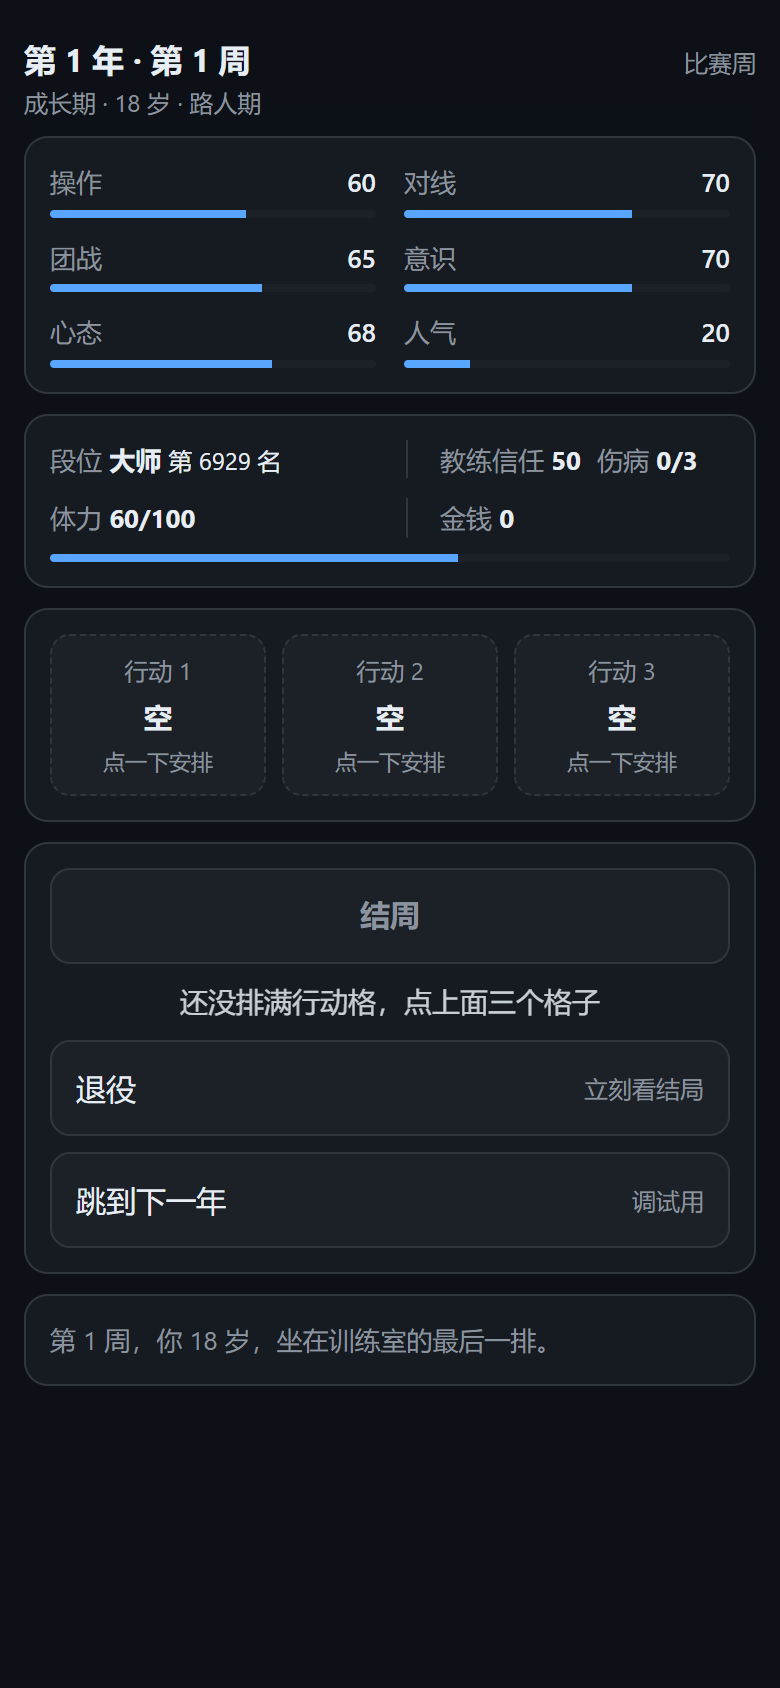
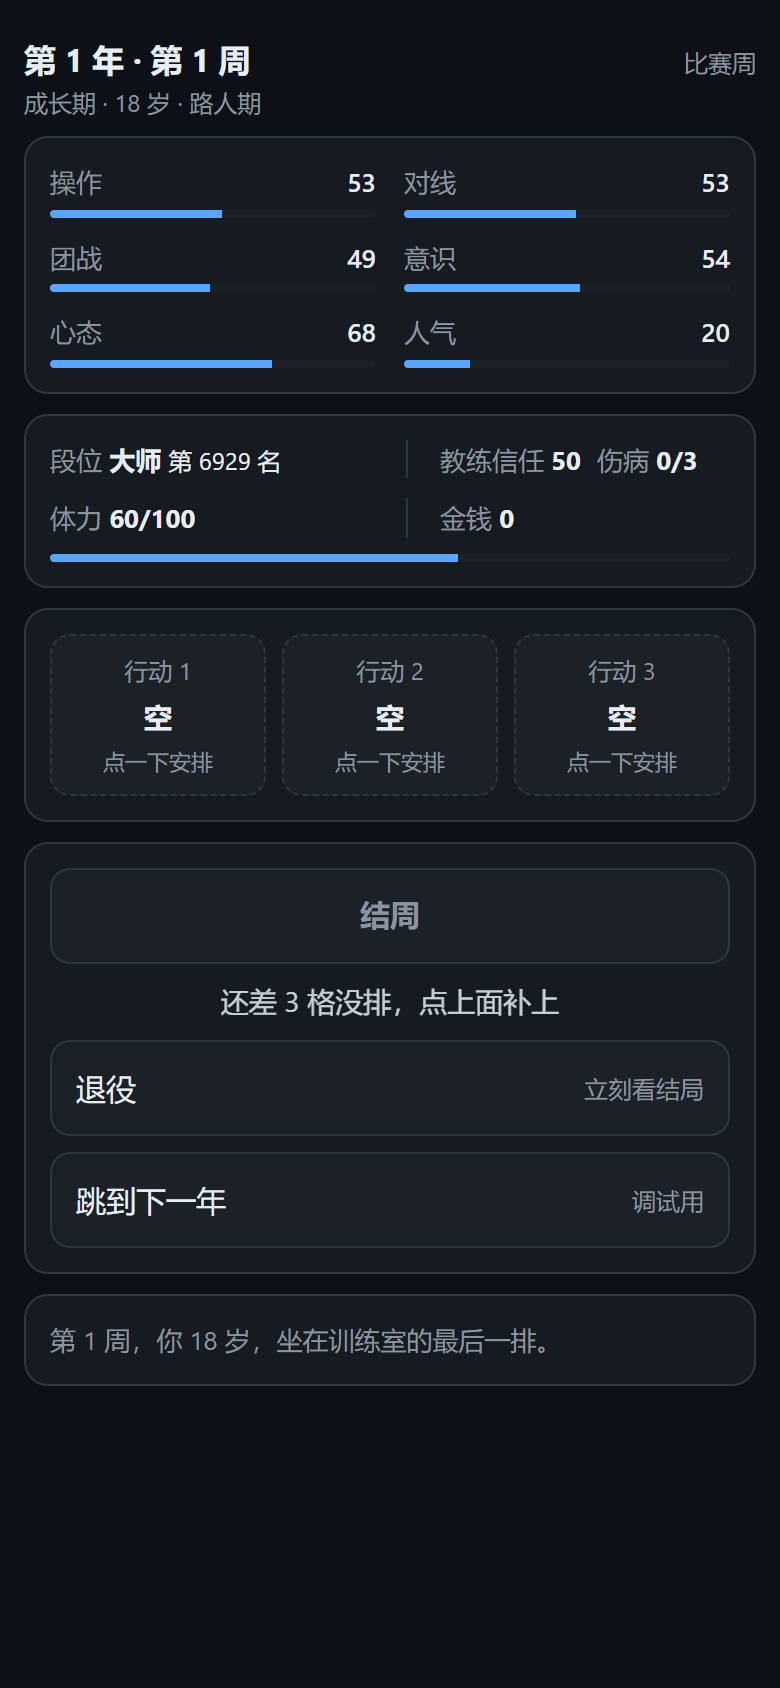
feat(ui): 面板动效 150/200ms + 禁用原因补齐为什么

diff --git a/src/ui/main.ts b/src/ui/main.ts
@@ -86,6 +86,20 @@ function renderSlots(): string {
   return `<div class="panel"><div class="slots">${cells}</div></div>`;
 }
 
+/**
+ * 结周为什么点不了：一句里要有「为什么」和「怎么做」。
+ * 体力不够是另一种处境——说成「点上面补上」会误导。
+ */
+function blockedWhy(empty: number): string {
+  if (state.pendingEvent) return '这个事件还没选完，先在上面选一个';
+  const slot = state.actionGrid.indexOf(null);
+  const canDoSomething = ACTION_IDS.some(
+    (id) => id !== 'rest' && isActionUnlocked(state, id) && canAfford(state, slot, id),
+  );
+  if (!canDoSomething) return `还剩 ${empty} 格，但体力只够排休息`;
+  return `还差 ${empty} 格没排，点上面补上`;
+}
+
 function renderControls(): string {
   const empty = state.actionGrid.filter((id) => id === null).length;
   const incomplete = empty > 0;
@@ -94,9 +108,7 @@ function renderControls(): string {
     <button class="btn primary" data-act="end-week" ${blocked}>
       <span>结周</span><span class="hint">${blocked ? '' : '结算三个行动并推进'}</span>
     </button>
-    ${blocked
-      ? `<p class="why">${state.pendingEvent ? '这个事件还没处理完' : '还没排满行动格，点上面三个格子'}</p>`
-      : ''}
+    ${blocked ? `<p class="why">${blockedWhy(empty)}</p>` : ''}
     <button class="btn" data-act="retire"><span>退役</span><span class="hint">立刻看结局</span></button>
     <button class="btn" data-act="skip-year"><span>跳到下一年</span><span class="hint">调试用</span></button>
   </div>`;
@@ -134,7 +146,7 @@ function renderSheet(): string {
     const clearRow = filled
       ? `<button class="btn" data-act="clear-slot"><span>清空这一格</span><span class="hint">恢复成空，重新排</span></button>`
       : '';
-    return `<div class="overlay" data-act="close-sheet"><div class="sheet" data-stop="1">
+    return `<div class="overlay" data-act="close-sheet"><div class="sheet" data-kind="pick" data-stop="1">
       <h2>${slotLabel(sheet.slot)}排什么</h2>
       <div class="options">${rows}${clearRow}</div>
     </div></div>`;
@@ -146,7 +158,7 @@ function renderSheet(): string {
         `<button class="btn" data-act="pick-target" data-key="${key}"><span>${ATTR_LABEL[key]}</span><span class="hint">集中提升</span></button>`,
     )
     .join('');
-  return `<div class="overlay" data-act="close-sheet"><div class="sheet" data-stop="1">
+  return `<div class="overlay" data-act="close-sheet"><div class="sheet" data-kind="pick" data-stop="1">
     <h2>专项训练练哪一项</h2>
     <div class="options">${rows}</div>
   </div></div>`;
@@ -168,7 +180,7 @@ function renderEvent(): string {
       </button>`;
     })
     .join('');
-  return `<div class="overlay"><div class="sheet">
+  return `<div class="overlay"><div class="sheet" data-kind="result">
     <h2>本周事件</h2>
     <p class="event-text">${esc(event.text)}</p>
     <div class="options">${rows}</div>
@@ -180,7 +192,7 @@ function renderOutcome(): string {
   const rows = outcome
     .map((e) => `<div class="${e.tone}">${esc(e.text)}</div>`)
     .join('');
-  return `<div class="overlay"><div class="sheet">
+  return `<div class="overlay"><div class="sheet" data-kind="result">
     <h2>结果</h2>
     <div class="log">${rows}</div>
     <div style="height:12px"></div>

diff --git a/src/ui/style.css b/src/ui/style.css
@@ -271,6 +271,20 @@ button {
   color: var(--bad);
 }
 
+/* 动效：150ms / 200ms，位移 8px。用 animation 而不是 transition——
+   界面靠 innerHTML 整块重绘，新插入的元素不会触发 transition。 */
+@keyframes rise {
+  from {
+    opacity: 0;
+    transform: translateY(8px);
+  }
+}
+@keyframes fade {
+  from {
+    opacity: 0;
+  }
+}
+
 .overlay {
   position: fixed;
   inset: 0;
@@ -279,8 +293,10 @@ button {
   display: flex;
   align-items: flex-end;
   justify-content: center;
+  animation: fade 150ms ease-out;
 }
 .sheet {
+  animation: rise 200ms ease-out;
   width: 100%;
   max-width: 520px;
   max-height: 86dvh;
@@ -290,6 +306,17 @@ button {
   border-top-right-radius: 16px;
   border: 1px solid var(--line);
   padding: 16px 14px calc(16px + env(safe-area-inset-bottom));
+}
+.sheet[data-kind="result"] {
+  animation-duration: 150ms;
+}
+@media (prefers-reduced-motion: reduce) {
+  .overlay,
+  .sheet,
+  .sheet[data-kind="result"] {
+    animation: fade 150ms ease-out;
+    transform: none;
+  }
 }
 .sheet h2 {
   margin: 0 0 10px;

diff --git a/P3-品质规格表.md b/P3-品质规格表.md
@@ -38,9 +38,9 @@
 
 | 项 | 值 | 依据 | 现状 |
 | --- | --- | --- | --- |
-| 结果浮层 | **150 ms**，位移 **8 px** | 课 6 | 代码里还没有过渡 |
-| 面板切换 | **200 ms** | 课 6 | 无过渡 |
-| `prefers-reduced-motion` | **保留淡入，去掉位移** | 课 6 / SC 2.3.3 | 未实现 |
+| 结果浮层 | **150 ms**，位移 **8 px** | 课 6 | 已实现（`@keyframes rise`）✓ |
+| 面板切换 | **200 ms** | 课 6 | 已实现 ✓ |
+| `prefers-reduced-motion` | **保留淡入，去掉位移** | 课 6 / SC 2.3.3 | 已实现（降级为 `fade`）✓ |
 
 第三行按你的判断写：SC 2.3.3 对 motion animation 的定义明确排除 opacity 变化，只改透明度不算动效，所以 reduced 下留着淡入是合规的，要归零的是那 8 px。
 
@@ -48,7 +48,7 @@
 
 | 项 | 值 | 依据 | 现状 |
 | --- | --- | --- | --- |
-| 必须回答为什么不能点、怎么才能点 | 两句都要有 | 课 3 | 只说了一半（`还没排满行动格，点上面三个格子`） |
+| 必须回答为什么不能点、怎么才能点 | 两句都要有 | 课 3 | 已实现（`还差 3 格没排，点上面补上`）✓ |
 | 原因文字字号 | ≥ 14 px | 课 3 | 14 px ✓ |
 | 原因与按钮间距 | 8–12 px | 课 3 | 8 px ✓ |
 
